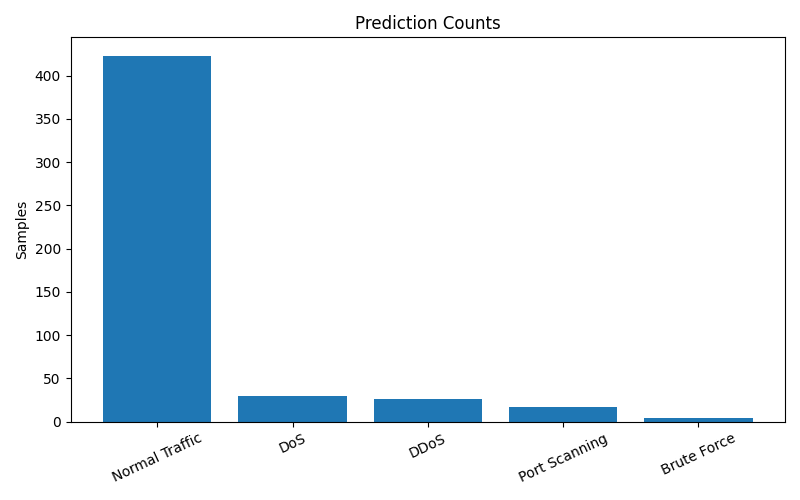
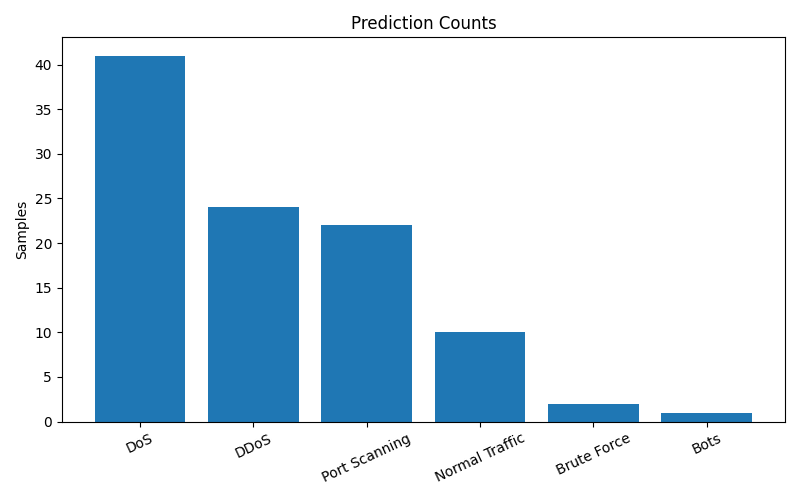
edit 1

diff --git a/README.md b/README.md
@@ -19,19 +19,34 @@ The system was developed as part of a Master's research project and combines dat
 ## Project Structure
 
 ```
-CyberAttackDetectionSystem
+CyberAttackDetectionSystem/
+
 │
+
 ├── data/
+
 ├── experiments/
-│   ├── E01_ModelComparison
-│   ├── E02_FeatureSelection
-│   ├── E03_HyperparameterOptimization
-│   ├── E04_ModelExplainability
-│   └── E05_FlaskWebApplication
+
+│      E01_ModelComparison
+
+│      E02_FeatureSelection
+
+│      E03_HyperparameterOptimization
+
+│      E04_ModelExplainability
+
+│      E05_WebApplication
+
 │
+
 ├── flask_app/
-├── models/
-├── requirements.txt
+
+├── notebooks/
+
+├── test_files/
+
+├── docs/
+
 └── README.md
 ```
 
